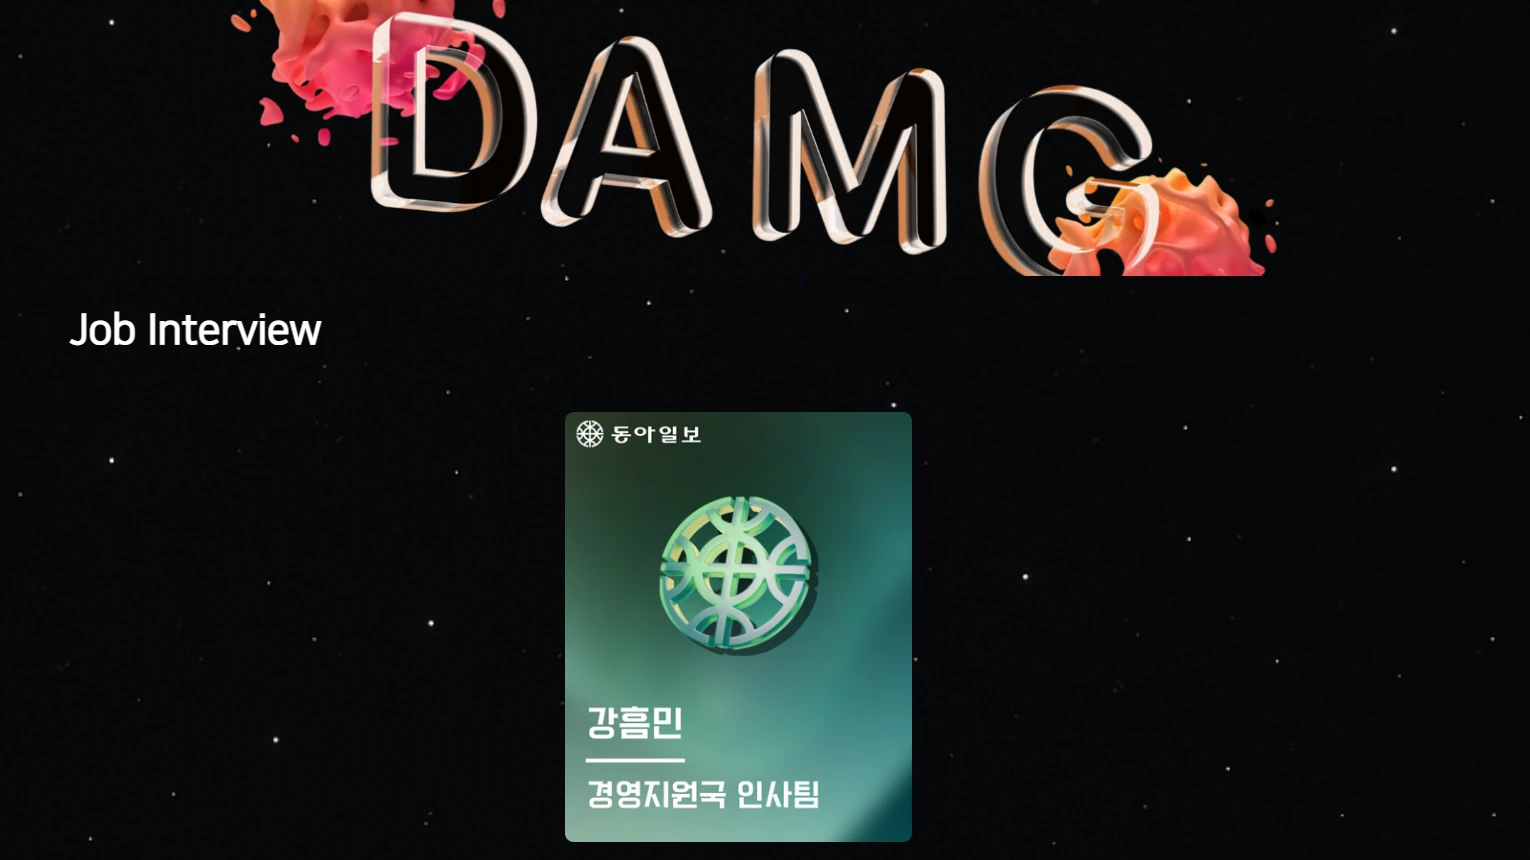
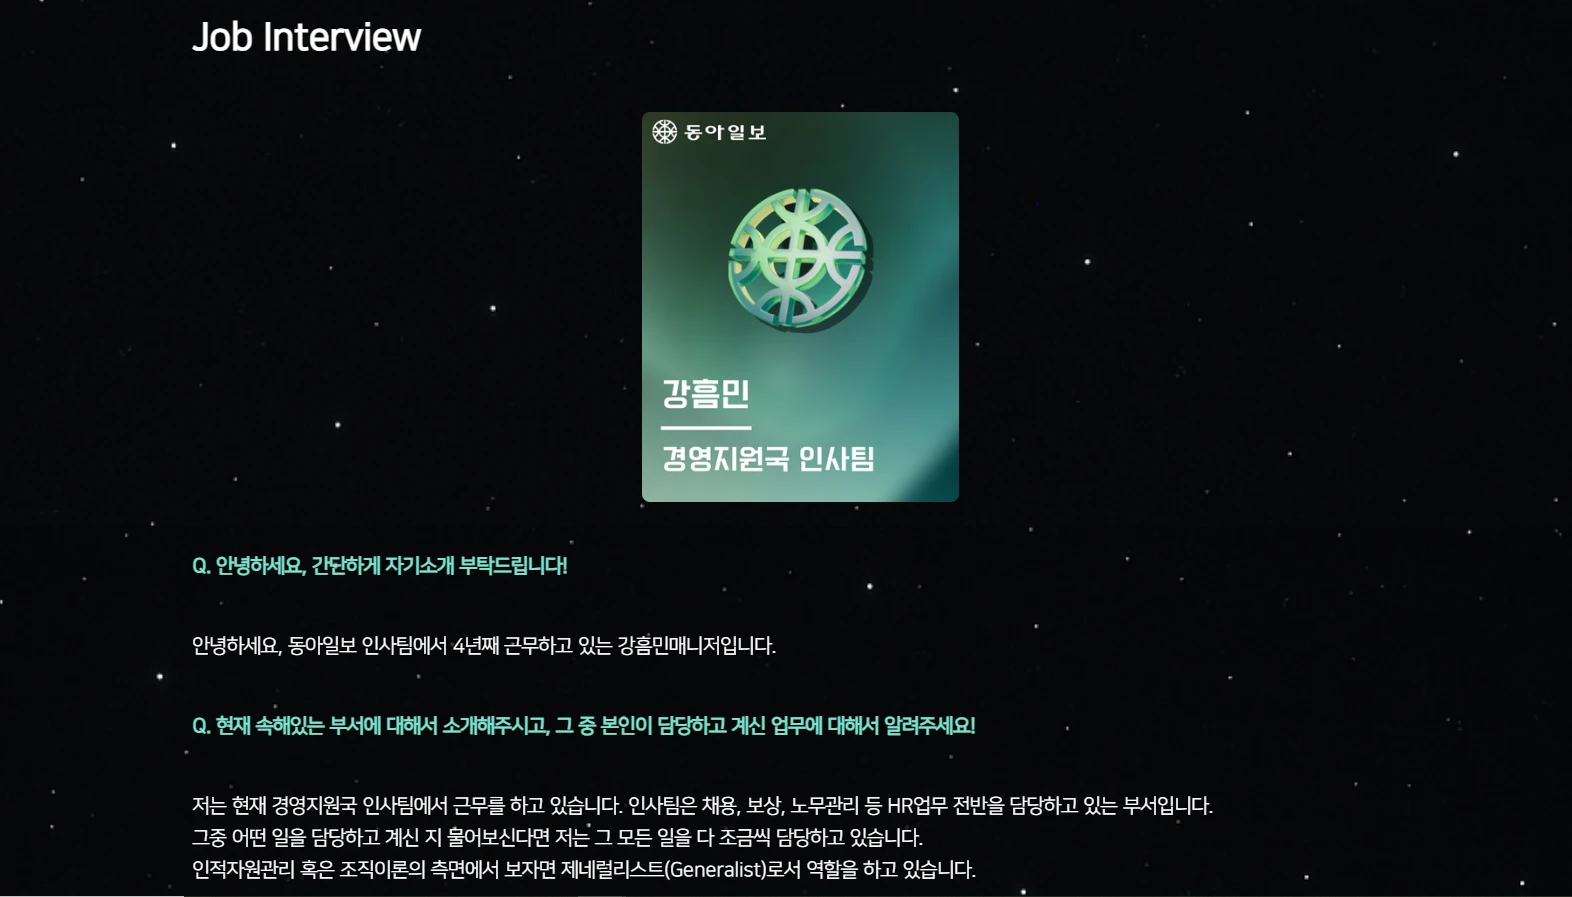
대표 사진 교체: 일상업무 사진 변경, 7개 프로젝트에 회사 대표 사진 적용
- HRM 일상업무(상시) 대표 사진을 새 사진으로 교체
- 회사 대표 사진(banner-company.png) 추가, 금쪽사랑휴가·시프티·출장여비·
  추가수당·통상임금·재고용·학자금 7개가 함께 사용 (프로젝트 데이터의 banner 필드)
- CLAUDE.md, 사진넣는법.txt 반영

Changed region(s): [[0.0, 0.0, 1.0, 1.0], [0.0307, 0.3628, 0.215, 0.4233]]

diff --git a/index.html b/index.html
@@ -623,7 +623,7 @@ const JOIN_DATE = '2022-03-14';
 const OPS = {short:'일상업무 · HRM 운영', start:'2022-03-14'};
 
 const PROJECTS = [
- {id:'geumjjok', short:'금쪽사랑휴가 신설', title:'생애주기 맞춤형 유급휴가 ‘금쪽사랑휴가’ 신설', cat:'policy', type:'new',
+ {id:'geumjjok', short:'금쪽사랑휴가 신설', title:'생애주기 맞춤형 유급휴가 ‘금쪽사랑휴가’ 신설', cat:'policy', type:'new', banner:'banner-company',
   start:'2022-04-01', end:'2022-04-30',
   secs:[['도입 배경','자녀 돌봄 수요는 특정 시기에 몰리지만, 그 시기를 기존 연차만으로 대응하기는 어려웠습니다.'],
         ['제도 설계','자녀 성장 단계의 주요 시점에 맞춰 쓰는 생애주기 맞춤형 유급휴가로 설계했습니다. 휴가 담당자로서 세부 기준 수립, 사내 규정 반영, 시행 실무를 맡았습니다.'],
@@ -631,7 +631,7 @@ const PROJECTS = [
   flow:[['문제','자녀 돌봄 수요가 몰리는 시기, 연차만으로는 부족'],['설계','자녀 성장 단계별 주요 시점에 맞춘 유급휴가'],['결과','세부 기준·사내 규정 반영 후 시행']],
   note:'입사 한 달 만에 맡은 첫 제도예요.',
   photos:[['geumjjok','사내보 ‘동우지’ 제도 소개 기사']], tags:['휴가','복지','생애주기','자녀','IP']},
- {id:'shiftee', short:'근태관리 프로그램 운영', title:'근태관리 프로그램 ‘시프티’ 운영', cat:'labor', type:'run',
+ {id:'shiftee', short:'근태관리 프로그램 운영', title:'근태관리 프로그램 ‘시프티’ 운영', cat:'labor', type:'run', banner:'banner-company',
   start:'2022-06-15', end:'2024-04-30',
   secs:[['프로그램 운영','기자들의 업무시간을 기록하는 근태관리 프로그램을 운영하고, 기록에 따라 야간취재비 수당을 지급했습니다.'],
         ['측정·지급 기준 마련','업무시간을 어떻게 측정할지, 그 시간에 따라 수당을 어떻게 지급할지 기준을 마련했습니다.'],
@@ -647,7 +647,7 @@ const PROJECTS = [
   flow:[['분석','예산·비용·적정 금액 분석'],['협상','운영 업체 컨택·계약 조건 조율'],['결과','제도 도입 후 일상 운영으로 연결']],
   note:'금액은 회사 내부 정보라 넣지 않았어요.',
   photos:[['welfare','복지포인트 안내 화면 또는 공지']], tags:['복지','예산','분석','업체','계약']},
- {id:'travel', short:'출장여비 사규 개정', title:'출장여비 사규 개정', cat:'policy', type:'fix',
+ {id:'travel', short:'출장여비 사규 개정', title:'출장여비 사규 개정', cat:'policy', type:'fix', banner:'banner-company',
   start:'2023-05-01', end:'2023-05-31',
   secs:[['개정 배경','2023년 공무원 여비 규정이 개정되면서, 사내 출장여비 기준도 이에 맞춰 다시 볼 필요가 생겼습니다.'],
         ['지급 기준 산정','숙박비·식비 등 지급 기준을 공공 기준, 타사 사례와 비교해 적정 수준을 산정했습니다.'],
@@ -664,26 +664,26 @@ const PROJECTS = [
    {year:2026, n:40,  approx:true,  t:'2026 기자 지망생 초청 설명회', s:'비공개 진행 · AI 게이미피케이션 도입'}],
   links:[['캐치카페 설명회 게시물 (Instagram)','https://www.instagram.com/p/DLzHR-NxNxX/']],
   photos:[['recruit-2024','2024 캐치카페 채용설명회 현장'],['recruit-2025','2025 캐치카페 채용설명회 현장'],['recruit-2026','2026 기자 지망생 설명회 · 웹앱 화면']], tags:['채용','설명회','캐치카페','브랜딩','게이미피케이션','AI']},
- {id:'allowance', short:'특별업무 추가수당 신설', title:'특별업무 추가수당 신설', cat:'comp', type:'new',
+ {id:'allowance', short:'특별업무 추가수당 신설', title:'특별업무 추가수당 신설', cat:'comp', type:'new', banner:'banner-company',
   start:'2024-10-01', end:'2026-05-08',
   secs:[['신설 배경','옥외 사이니지 ‘LUUX’ 설치에 따른 야간 공사, 청계광장 ‘두들라이브’ 공연 행사 진행처럼 평소 업무 범위를 벗어난 일이 생겼고, 이를 맡은 직원에게 줄 수당이 필요했습니다.'],
         ['지급 기준 수립','“왜 이 금액인가”라는 질문에 숫자로 답할 수 있도록, 금액보다 직원에게 설명할 수 있는 근거를 먼저 찾았습니다. 외부 시장 수준, 내부 형평성, 실제 업무 부담을 각각 다른 데이터로 확인했습니다.']],
   flow:[['외부 시장','국가통계포털 표준노임단가'],['내부 형평','대상자 평균 통상임금'],['업무 부담','실제 추가근로시간'],['결과','세 근거를 교차 확인해 수당 지급 기준 마련']],
   note:'실제 금액은 회사 내부 정보라 넣지 않았어요.',
   photos:[['allowance','옥외 사이니지 ‘LUUX’ · ‘두들라이브’ 현장']], tags:['수당','보상','통계','표준노임단가','통상임금','데이터']},
- {id:'wage', short:'통상임금 개편', title:'통상임금 개편 작업', cat:'labor', type:'fix',
+ {id:'wage', short:'통상임금 개편', title:'통상임금 개편 작업', cat:'labor', type:'fix', banner:'banner-company',
   start:'2025-02-01', end:'2025-06-01',
   marker:{date:'2024-12-19', label:'대법원 판결'},
   secs:[['개편 배경','대법원 전원합의체 판결(2024. 12. 19. 선고 2020다247190)로 통상임금의 ‘고정성’ 요건이 폐기됐습니다. 재직 조건이 붙은 임금도 통상임금에 들어갈 수 있게 되면서 기준을 다시 봐야 했습니다.'],
         ['통상임금 범위 재검토','통상임금 범위를 다시 검토한 뒤, 통상임금으로 계산하는 휴일근무수당 등 연동 수당의 계산 기준과 금액을 함께 바꿨습니다.'],
         ['연동 수당 확인','통상임금이 바뀌면 그 값을 쓰는 수당이 모두 움직이기 때문에, 한 항목만 고치지 않고 영향받는 항목을 끝까지 추적했습니다.']],
   flow:[['판례','2024. 12. 19. 대법원 전원합의체 판결'],['검토','고정성 요건 폐기에 따른 통상임금 범위 재검토'],['연동','통상임금 기반 수당(휴일근무수당 등) 영향 확인'],['결과','계산 기준·지급 금액 변경']], tags:['통상임금','판례','노무','법','수당','고정성']},
- {id:'reemploy', short:'정년 후 재고용 도입', title:'정년 후 재고용 도입', cat:'policy', type:'new',
+ {id:'reemploy', short:'정년 후 재고용 도입', title:'정년 후 재고용 도입', cat:'policy', type:'new', banner:'banner-company',
   start:'2025-12-01', end:'2026-03-31',
   secs:[['도입 배경','언론사에는 오랜 경험이 쌓여야 할 수 있는 업무가 있습니다. 담당자가 정년을 맞으면 신입사원으로 바로 대체하기 어려워 업무 공백이 생길 수 있었습니다.'],
         ['제도 설계','정년 후 재고용 제도를 도입해 재고용 대상 요건과 근로조건 기준을 세우고, 관련 규정을 마련해 시행했습니다. 특정 개인을 위한 예외가 아니라, 같은 상황이 다시 와도 쓸 수 있는 기준으로 만들었습니다.']],
   flow:[['문제','대체하기 어려운 업무의 담당자 정년 도래'],['설계','재고용 대상 요건·근로조건 기준 수립'],['결과','규정 마련·시행으로 업무 연속성 확보']], tags:['정년','재고용','규정','근로조건','인력']},
- {id:'tuition', short:'해외대학 학자금 기준 변경', title:'자녀 해외대학 학자금 지급 기준 변경', cat:'comp', type:'fix',
+ {id:'tuition', short:'해외대학 학자금 기준 변경', title:'자녀 해외대학 학자금 지급 기준 변경', cat:'comp', type:'fix', banner:'banner-company',
   start:'2026-01-01', end:'2026-02-12',
   secs:[['기준 검토','자녀 해외대학 학자금 지급 기준 가운데 불합리한 부분을 확인했습니다.'],
         ['기준 변경','지급 기준과 지급액을 함께 변경했습니다.']],
@@ -882,7 +882,7 @@ function renderDetail(id){
           <a class="d-apply" href="mailto:rkdgmaals@naver.com?subject=${encodeURIComponent('[포트폴리오] '+v.short+' 문의')}">더 물어보기</a>
         </div>
       </div>
-      ${photoSlot('banner-'+id, v.short+' 대표 사진', 'd-banner')}
+      ${photoSlot((p&&p.banner)||'banner-'+id, v.short+' 대표 사진', 'd-banner')}
       ${v.body}
       <a class="d-bottom" href="#all">${ICON_BACK}전체 프로젝트로 가기</a>
     </article>

diff --git a/CLAUDE.md b/CLAUDE.md
@@ -54,7 +54,7 @@ CLAUDE.md               이 문서
 | `SHOW_EMPTY_PHOTO_SLOTS` | `false`로 바꾸면 사진이 없는 칸이 숨겨진다 |
 | `CATS` | 영역 5개와 색 (순서·색 고정, 아래 차트 규칙 참고) |
 | `TYPES` | 유형: 신설 / 개정·개편 / 운영 |
-| `PROJECTS` | 프로젝트 10개. `start`/`end`(진행 중이면 `end:null`), `secs`(중제목과 내용), `flow`(진행 흐름), `events`(채용설명회 회차), `photos`, `links`, `tags`(검색용) |
+| `PROJECTS` | 프로젝트 10개. `start`/`end`(진행 중이면 `end:null`), `secs`(중제목과 내용), `banner`(대표 사진 파일 이름, 없으면 `banner-{id}`), `flow`(진행 흐름), `events`(채용설명회 회차), `photos`, `links`, `tags`(검색용) |
 | `DAILY` | Play Style 탭의 "매일 하는 기본 업무" |
 | `ROUTINE` | ALL 목록 맨 위에 고정되는 "HRM 일상업무 (상시)". 필터와 상관없이 항상 보이고, 영역 필터를 걸면 그 영역의 업무가 "관련 업무"로 함께 보인다. 프로젝트 개수·Stats 차트에는 넣지 않는다. 업무마다 `cat`(연결할 영역)·`k`(짧은 이름)·`t`(상세 문구) |
 | `COVERAGE` | Stats 탭의 HRM 커버리지 맵 |
@@ -67,6 +67,7 @@ CLAUDE.md               이 문서
 `images/` 폴더에 정해진 이름으로 넣으면 자동으로 들어간다. 확장자는 jpg / jpeg / png / webp 모두 된다.
 `profile`, `geumjjok`, `shiftee`, `welfare`, `allowance`, `recruit-2024`, `recruit-2025`, `recruit-2026`, `peoplexity-1`, `peoplexity-2`.
 프로젝트 상세 페이지 제목 아래 대표 사진(배너, 자르지 않고 사진 비율 그대로 표시)은 `banner-{프로젝트 id}` (예: `banner-geumjjok`).
+프로젝트에 `banner:'banner-company'`가 있으면 회사 대표 사진(`images/banner-company.png`)을 쓴다. 지금은 금쪽사랑휴가·시프티·출장여비·추가수당·통상임금·재고용·학자금 7개.
 Vercel은 대소문자를 구분하니 파일 이름은 소문자로 맞춘다.
 사진에 동료 얼굴이나 내부 문서가 보이면 올리기 전에 사용자에게 확인한다.
 
